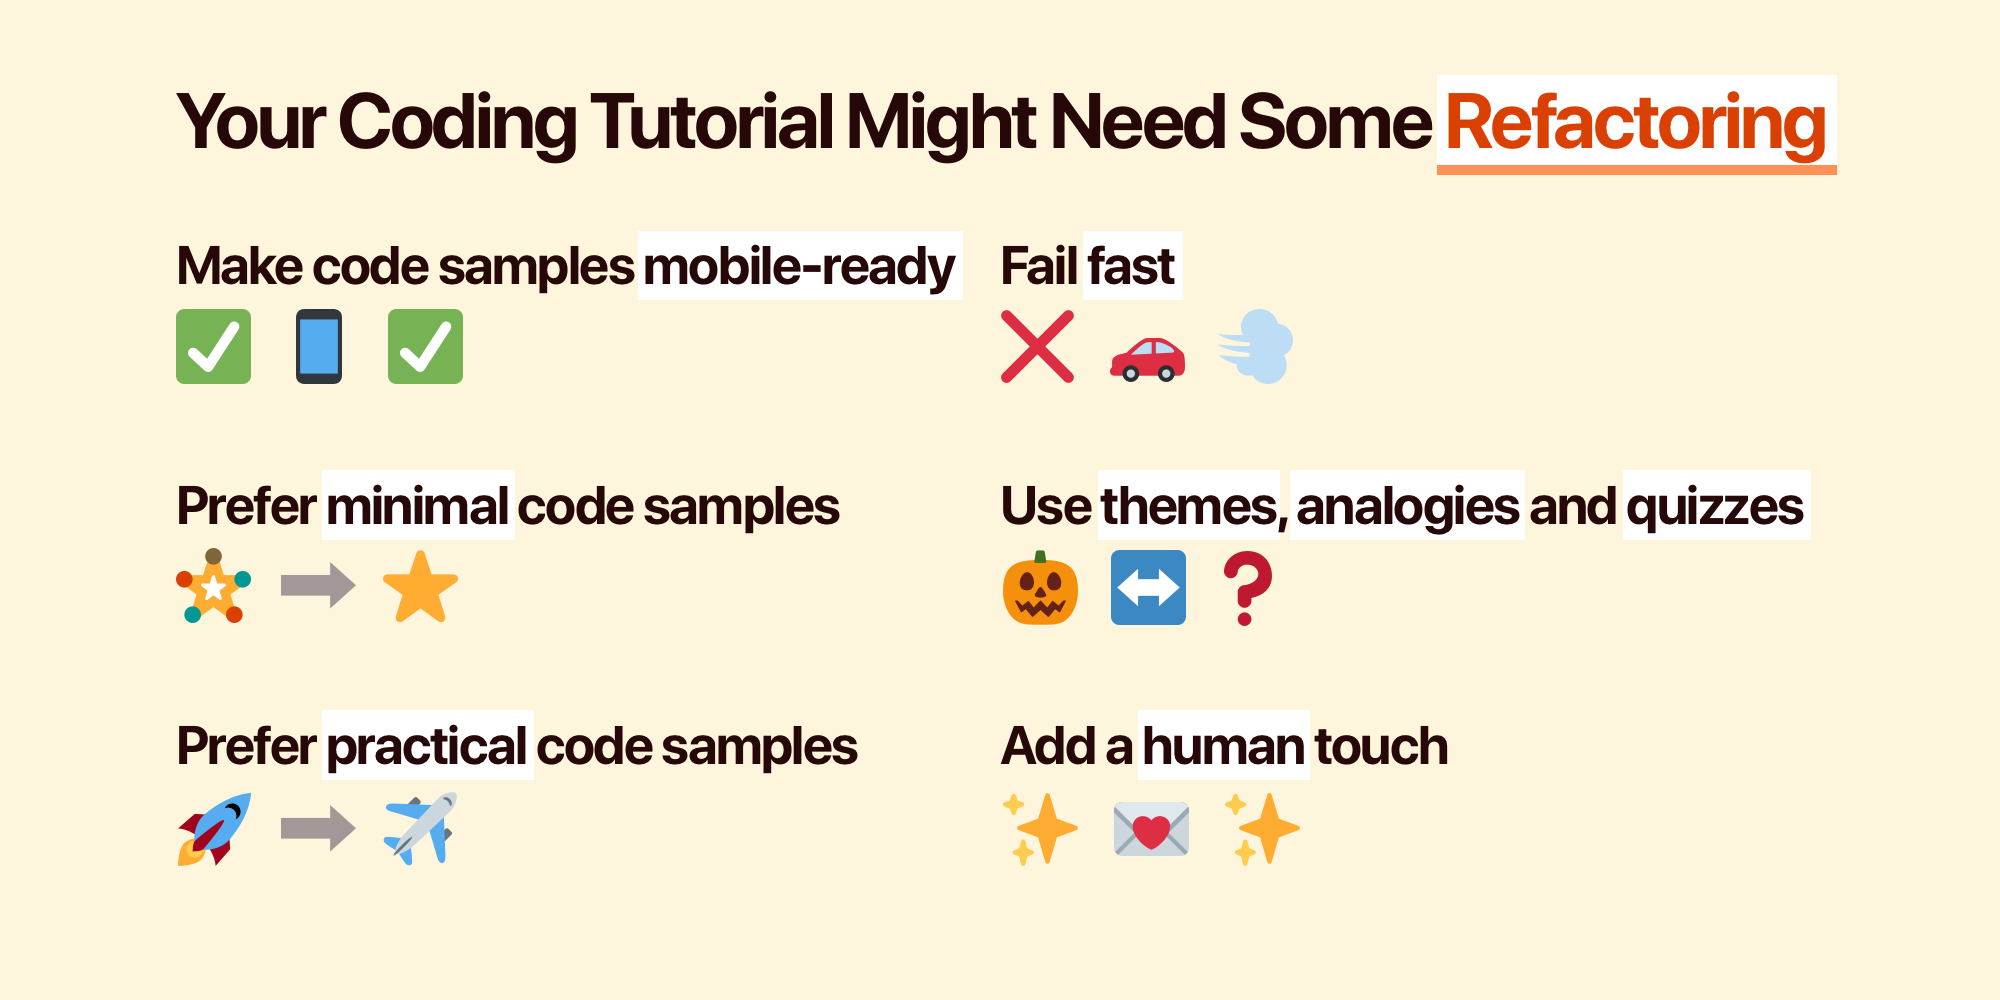
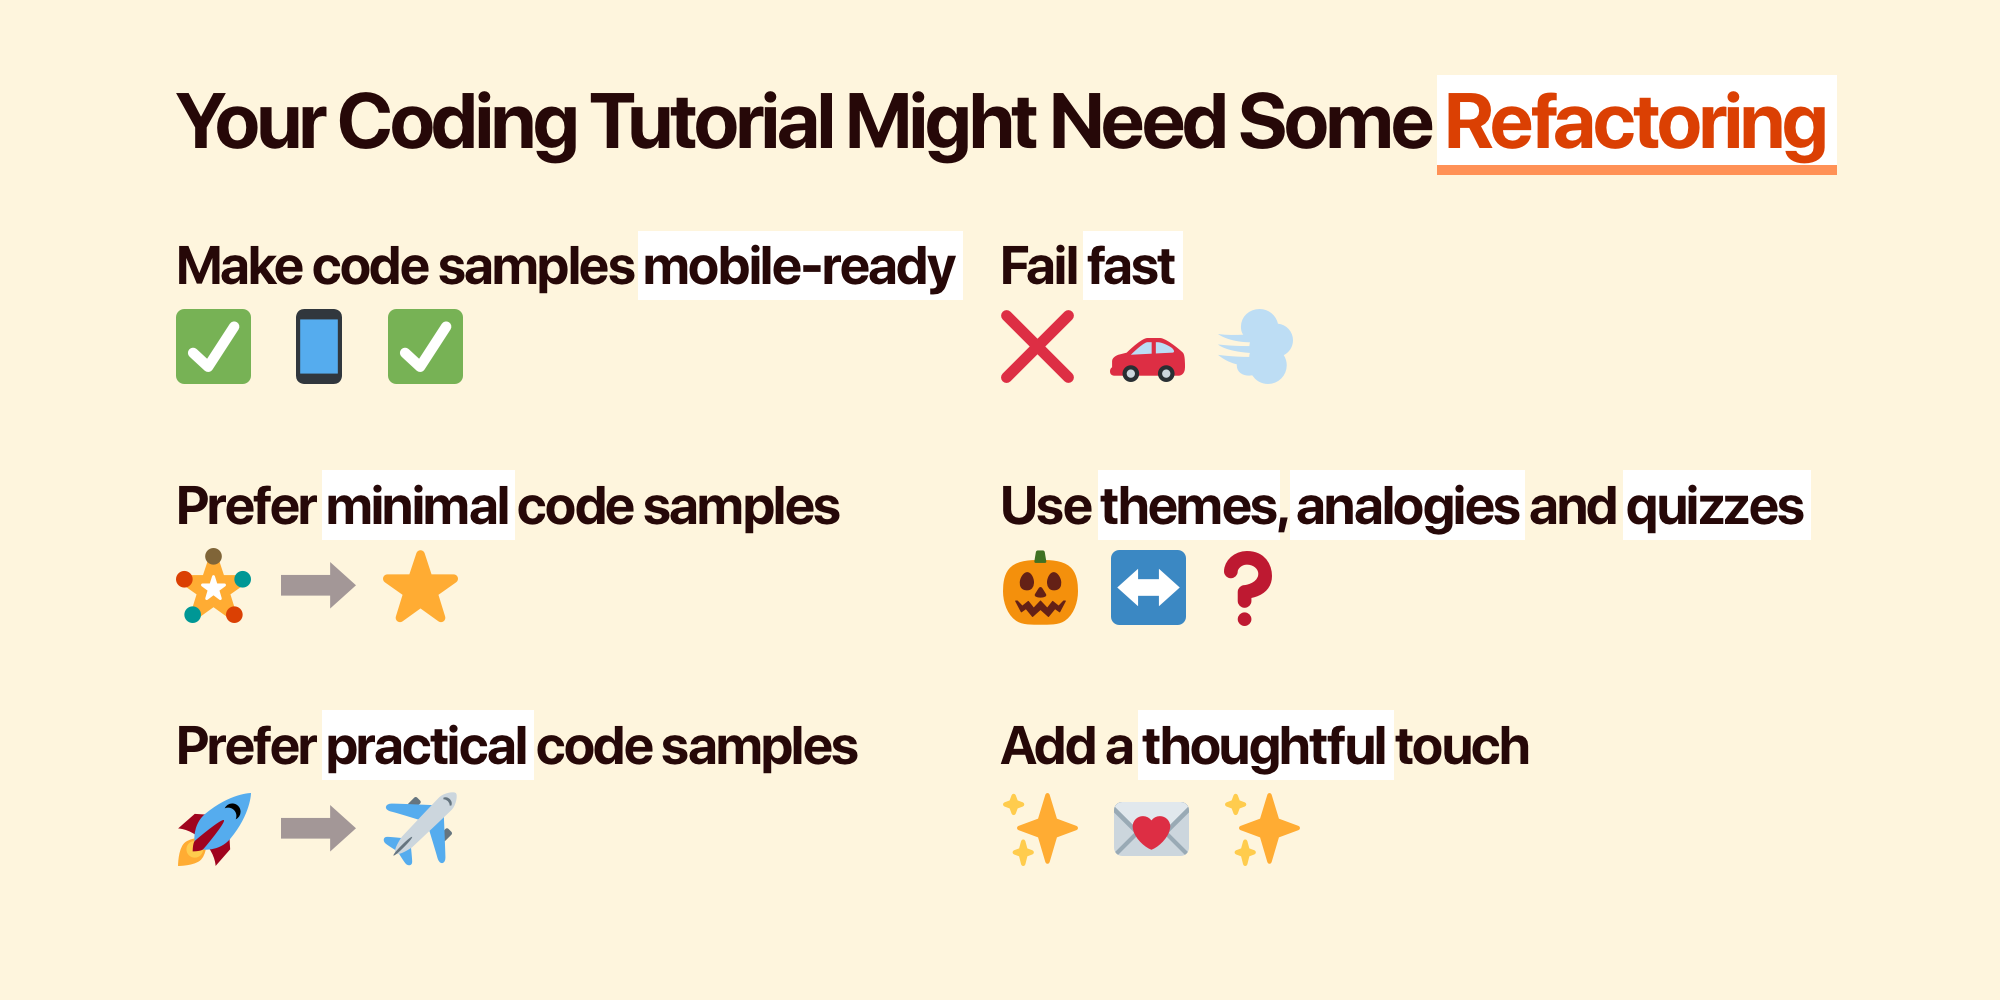
Continue with tip 6

Changed region(s): [[0.558, 0.713, 0.775, 0.806]]

diff --git a/src/pages/refactor.tsx b/src/pages/refactor.tsx
@@ -73,7 +73,7 @@ const techniques = [
   {
     title: (
       <>
-        Add a <Highlight>human</Highlight> touch
+        Add a <Highlight>thoughtful</Highlight> touch
       </>
     ),
     emojis: ['sparkles', 'heartLetter', 'sparkles']
@@ -935,8 +935,8 @@ const Page = () => (
           <>
             <EmojiSeparator emojis={techniques[4].emojis} />
             <P>
-              Let’s talk about the 3 simple techniques you can use to engage the
-              readers’ brain. <Emoji type="brain"></Emoji>
+              Let’s talk about the <strong>3 simple techniques</strong> you can
+              use to engage the readers’ brain. <Emoji type="brain"></Emoji>
             </P>
             <Hr />
             <P>
@@ -1073,6 +1073,70 @@ const Page = () => (
         content: (
           <>
             <EmojiSeparator emojis={techniques[5].emojis} />
+            <P>
+              This is the final section! Here are some mini tips to add a
+              thoughtful touch on your tutorial.
+            </P>
+            <Hr />
+            <P>
+              <strong>
+                Visually emphasize important parts in your code samples.
+              </strong>{' '}
+              <Highlight color="yellowHighlight">Highlight</Highlight> or{' '}
+              <strong>bold</strong> important words/lines so your readers know
+              what to pay attention to. You can also{' '}
+              <Highlight>add a comment</Highlight> next to the emphasized
+              words/lines to make it even clearer.
+            </P>
+            <CodeBlock
+              snippet={snippets.yxjg}
+              caption={
+                <>
+                  <Highlight color="yellowHighlight">Highlight</Highlight> or{' '}
+                  <strong>bold</strong> important words/lines
+                </>
+              }
+              shouldHighlight={(lineIndex, tokenIndex) =>
+                lineIndex === 3 && tokenIndex >= 0 && tokenIndex <= 4
+              }
+            />
+            <Hr />
+            <P>
+              <strong>Use graphics that represent faces.</strong> There’s a
+              reason a lot of ads have someone’s face in it. People’s brain is
+              wired to pay attention to faces. Take advantage of this to grab
+              your readers’ attention.
+            </P>
+            <P>
+              One of the easiest ways to do this is to use{' '}
+              <strong>emojis</strong>. Just insert a happy{' '}
+              <Emoji type="heartCat" /> emoji when things are going well, and
+              insert a scared <Emoji type="scaryCat" /> emoji when things don’t
+              go as expected.
+            </P>
+            <EmojiSeparator
+              emojis={['heartCat', 'smilingCat', 'scaryCat']}
+              description={
+                <>
+                  Use emojis to express emotions your readers should be feeling
+                </>
+              }
+            />
+            <Hr />
+            <P>
+              <strong>Use text-only graphics.</strong> One of the simplest yet
+              very effective graphics is the text-only ones like below (which I
+              used earlier):
+            </P>
+            <EmojiSeparator
+              emojis={['uglyCode', 'refactorArrow', 'cleanCode']}
+            />
+            <P>
+              It’s very simple—two squares with text and one arrow with text.
+              But it’s great for emphasis and helps your readers visually
+              remember the concept.
+            </P>
+            <Hr />
           </>
         )
       }
